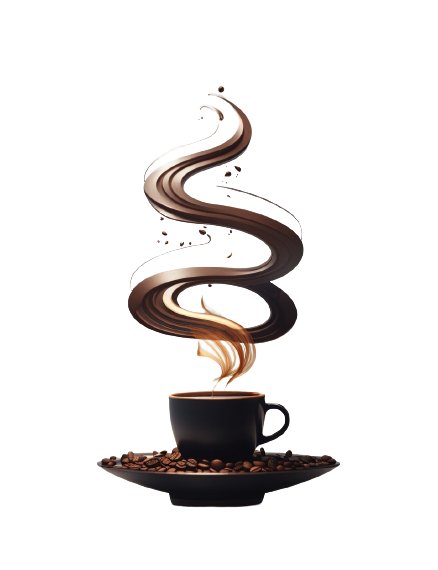
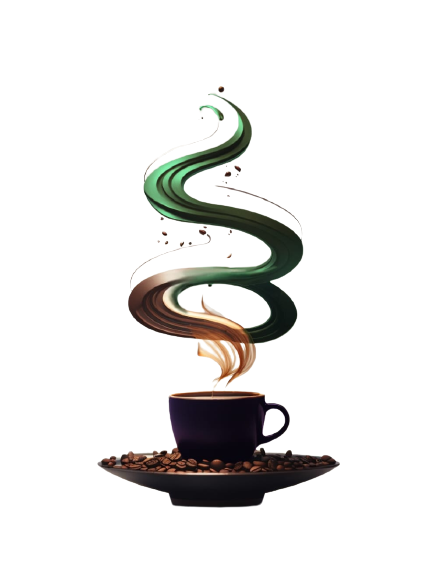
refactor: change collor palete

diff --git a/index.html b/index.html
@@ -31,13 +31,31 @@
   <section class="post-list">
     <div class="post">
       <div style="background-image: url('./img/post1-image.png'); background-position: 0 45%;" class="post-header"></div>
-      <span>
+      <span class="post-content">
         Muito bem vinde a todes! Esse é meu blog sobre café e, já esclarescendo uma possível dúvida, 
         sim, café me faz <strong>muito</strong> mal. Mas acho que a vida é um pouco sobre isso, equilibrar o que te mata
         com oque você mais ama. Sendo sincero, eu sequer sou um apaixonado do café, se está esperando uma review
         profunda sobre café, sinto muito :/. Acho que deveria ter avisado mais cedo, mas esse blog não é sobre café ;)
         rsrsrs
-      </span>
+      </span><br/>
+      <span class="post-date">26/09/2023</span>
+    </div>
+    <div class="post">
+      <div style="background-image: url('./img/post-image.jpg'); background-position: 0 45%;" class="post-header"></div>
+      <span class="post-content">
+        Opa, bon jour! eu decidi criar esse blog na base do ódio. Por uma série de motivos como o fato de que
+        eu <strong>óbviamente</strong> não sou bom com delongas, mas eu me senti desafiado. O indivíduo que me desafiou,
+        o professor de uma conhecida, o fez sem sequer saber. Como muitos professores, especialmente os de diciplinas 
+        conectadas com TI, ele se importa muito pouco com o ensino e muito com o próprio ego, se esforçando pra fazer a mais simples
+        das tarefas parecerem o que eu chamo de "repinbócas da parafuseta". Um professor que complica não é um professor, ponto.
+        Me revolta que alguém seja tão bem pago só pra jogar o seu ogo sobre aqueles que só querem aprender.Opa, bon jour! eu decidi criar esse blog na base do ódio. Por uma série de motivos como o fato de que
+        eu <strong>óbviamente</strong> não sou bom com delongas, mas eu me senti desafiado. O indivíduo que me desafiou,
+        o professor de uma conhecida, o fez sem sequer saber. Como muitos professores, especialmente os de diciplinas 
+        conectadas com TI, ele se importa muito pouco com o ensino e muito com o próprio ego, se esforçando pra fazer a mais simples
+        das tarefas parecerem o que eu chamo de "repinbócas da parafuseta". Um professor que complica não é um professor, ponto.
+        Me revolta que alguém seja tão bem pago só pra jogar o seu ogo sobre aqueles que só querem aprender.
+      </span><br/>
+      <span class="post-date">26/09/2023</span>
     </div>
   </section>
 

diff --git a/main.css b/main.css
@@ -28,8 +28,8 @@ header {
 }
 
 header > h1 {
-  color: var(--datail);
-  text-shadow: 1px 1px 5px red, 0 0 1em blue, 0 0 0.2em blue;
+  color: white;
+  font-size: 2vw;
 }
 
 .banner {
@@ -41,7 +41,7 @@ header > h1 {
   background-image: url('./img/banner-image.png');
   background-repeat: no-repeat;
   background-position: center;
-  background-size:500px;
+  background-size:550px;
   height: 80vh;
   background-attachment: fixed;
 }
@@ -56,13 +56,13 @@ header > h1 {
 }
 
 .banner > span {
-  color: #a34cff;
+  color: #00ff2f;
   letter-spacing: 0.1em;
   z-index: 1;
   padding: 0.5em 3em;
   width: fit-content;
   background-color: rgba(0, 0, 0, 0.682);
-  text-shadow: 1px 1px 2px red, 0 0 1em blue, 0 0 0.2em blue;
+  text-shadow: 0 0 1em white;
 }
 
 .banner > .shadow {
@@ -75,6 +75,7 @@ header > h1 {
 
 .post-list {
   display: flex;
+  gap: 1em;
   background-color: white;
   place-items: center;
   flex-direction: column;
@@ -93,10 +94,15 @@ header > h1 {
   height: 400px;
 }
 
-.post > span {
+.post > .post-content {
   margin-top: 2em;
   word-spacing: 0.1em;
   overflow: scroll;
+  max-height: 100px;
+}
+
+.post > .post-date {
+  color: rgba(255, 255, 255, 0.542);
 }
 
 .post > .post-header {
@@ -107,9 +113,15 @@ header > h1 {
 }
 
 @media screen  and (max-width:400px){
-  
-.banner > h1 {
-  font-size: 12vw;
-  margin-bottom: 0.2em;
-}
+  .banner > h1 {
+    font-size: 12vw;
+    margin-bottom: 0.2em;
+  }
+  body {
+    padding-top: 4em;
+  }
+  header > h1 {
+    text-align: center;
+    font-size: 1em;
+  }
 }
